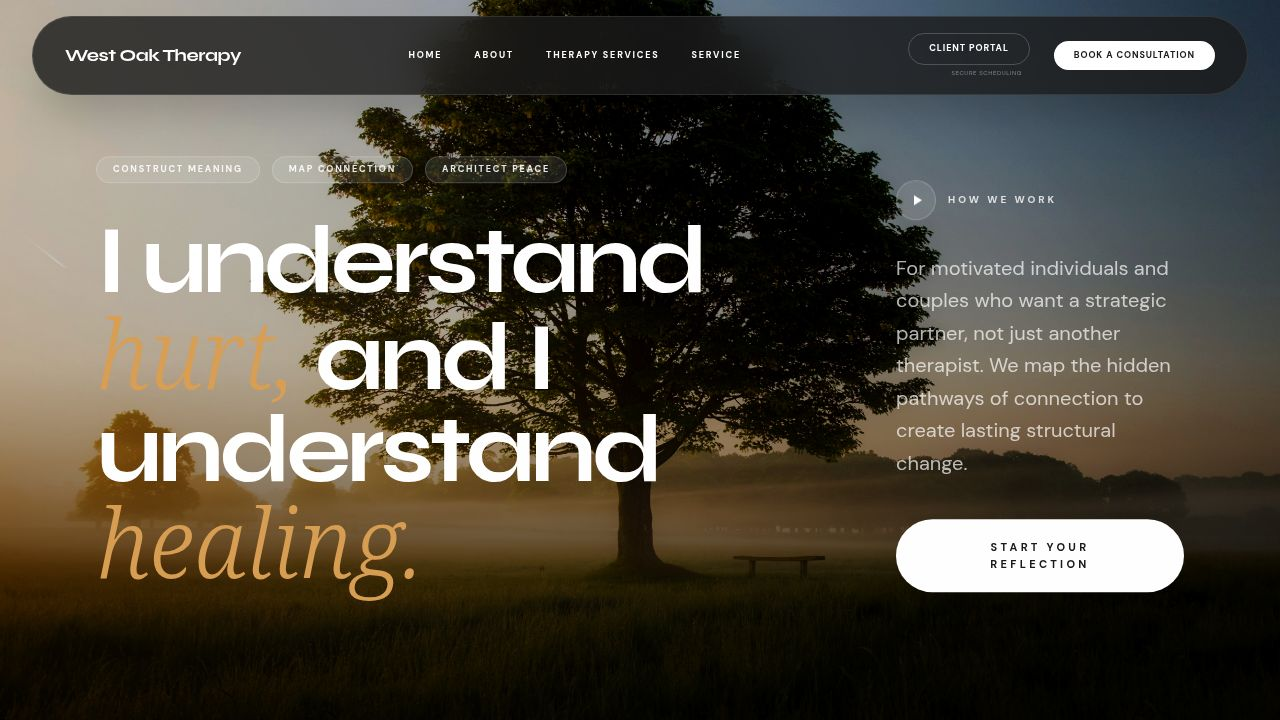
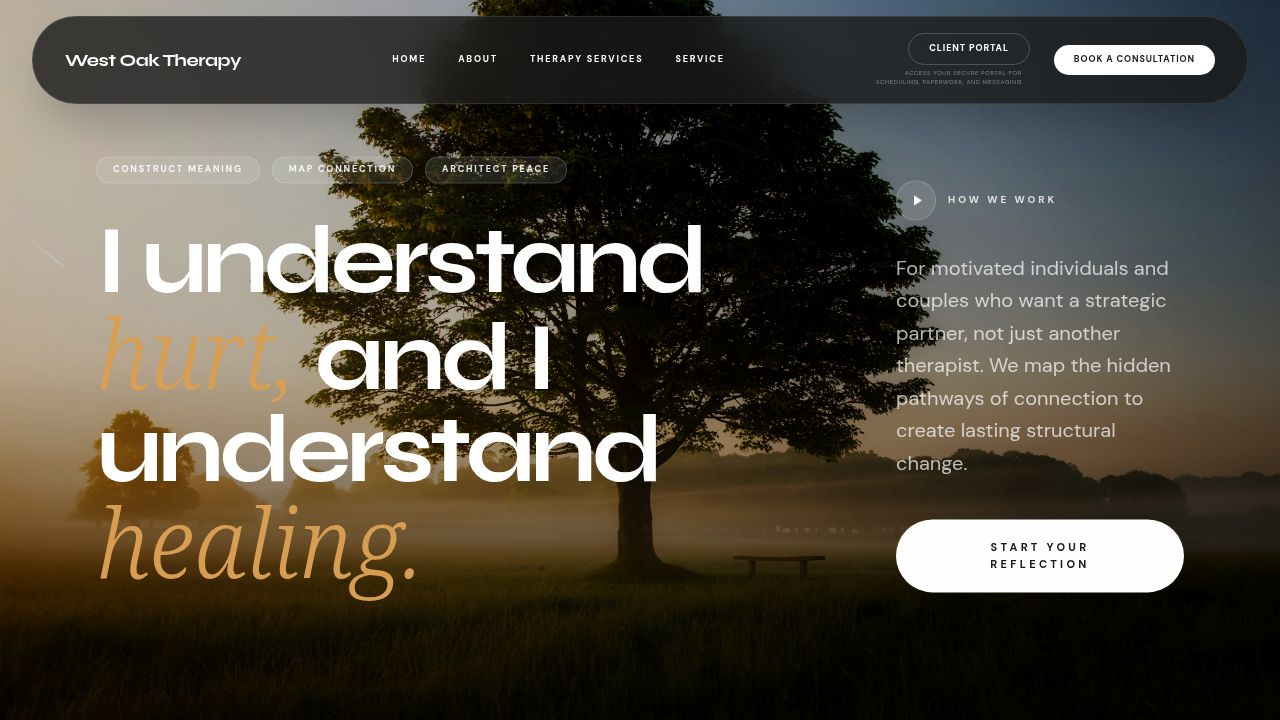
Add explanation for client portal button on service page
Adds explanatory text "Access your secure portal for scheduling, paperwork, and messaging." below the Client Portal button on the Service page for clarity.

Replit-Commit-Author: Agent
Replit-Commit-Session-Id: b29306ab-6ed0-4837-be70-055f5f9bbf88
Replit-Commit-Checkpoint-Type: full_checkpoint
Replit-Commit-Event-Id: 7f939c9c-b680-40c1-a273-aec32b5b35c0
Replit-Commit-Screenshot-Url: https://storage.googleapis.com/screenshot-production-us-central1/478f31a9-7bd2-4def-b3dd-6878f3b3e616/b29306ab-6ed0-4837-be70-055f5f9bbf88/dEJJ4wt
Replit-Helium-Checkpoint-Created: true

diff --git a/client/src/pages/mirror-experience.tsx b/client/src/pages/mirror-experience.tsx
@@ -705,23 +705,28 @@ export default function MirrorExperience() {
                       The <br /> <span className="italic font-serif font-light text-[#8C3B24]">Practice.</span>
                     </h2>
                     
-                    <div className="flex flex-col sm:flex-row gap-4 mt-8 md:mt-12">
-                      <motion.button 
-                        onClick={() => window.location.href = "mailto:jen@westoaktherapy.com?subject=Consultation%20Request"}
-                        whileHover={{ scale: 1.03, backgroundColor: "#1A1A1A" }}
-                        whileTap={{ scale: 0.97 }}
-                        className="w-full sm:w-auto px-8 md:px-10 py-4 bg-[#2D2926] text-[#FDFCFB] text-[9px] md:text-[10px] font-bold tracking-[0.3em] uppercase transition-all duration-700 rounded-full shadow-xl"
-                      >
-                        Consultation
-                      </motion.button>
-                      <motion.button 
-                        onClick={() => window.open('https://westoaktherapy.sessionshealth.com', '_blank')}
-                        whileHover={{ scale: 1.03, backgroundColor: "#F8F7F5" }}
-                        whileTap={{ scale: 0.97 }}
-                        className="w-full sm:w-auto px-8 md:px-10 py-4 border border-[#2D2926]/20 text-[#2D2926] text-[9px] md:text-[10px] font-bold tracking-[0.3em] uppercase transition-all duration-700 rounded-full"
-                      >
-                        Client Portal
-                      </motion.button>
+                    <div className="flex flex-col gap-4 mt-8 md:mt-12">
+                      <div className="flex flex-col sm:flex-row gap-4">
+                        <motion.button 
+                          onClick={() => window.location.href = "mailto:jen@westoaktherapy.com?subject=Consultation%20Request"}
+                          whileHover={{ scale: 1.03, backgroundColor: "#1A1A1A" }}
+                          whileTap={{ scale: 0.97 }}
+                          className="w-full sm:w-auto px-8 md:px-10 py-4 bg-[#2D2926] text-[#FDFCFB] text-[9px] md:text-[10px] font-bold tracking-[0.3em] uppercase transition-all duration-700 rounded-full shadow-xl"
+                        >
+                          Consultation
+                        </motion.button>
+                        <motion.button 
+                          onClick={() => window.open('https://westoaktherapy.sessionshealth.com', '_blank')}
+                          whileHover={{ scale: 1.03, backgroundColor: "#F8F7F5" }}
+                          whileTap={{ scale: 0.97 }}
+                          className="w-full sm:w-auto px-8 md:px-10 py-4 border border-[#2D2926]/20 text-[#2D2926] text-[9px] md:text-[10px] font-bold tracking-[0.3em] uppercase transition-all duration-700 rounded-full"
+                        >
+                          Client Portal
+                        </motion.button>
+                      </div>
+                      <p className="text-[10px] md:text-xs text-[#2D2926]/50 tracking-wider">
+                        Access your secure portal for scheduling, paperwork, and messaging.
+                      </p>
                     </div>
                   </div>
                   
